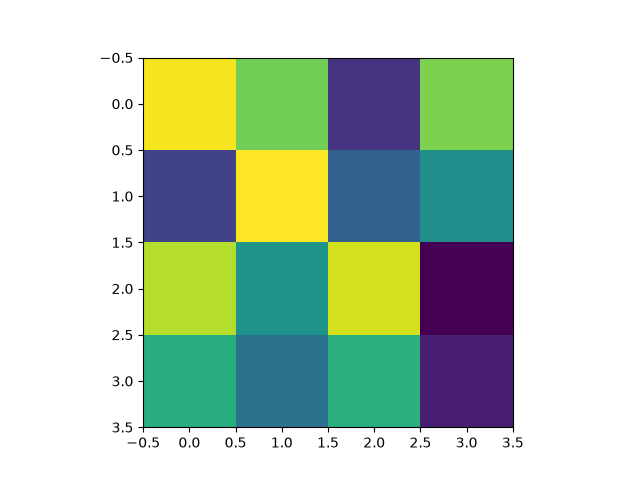
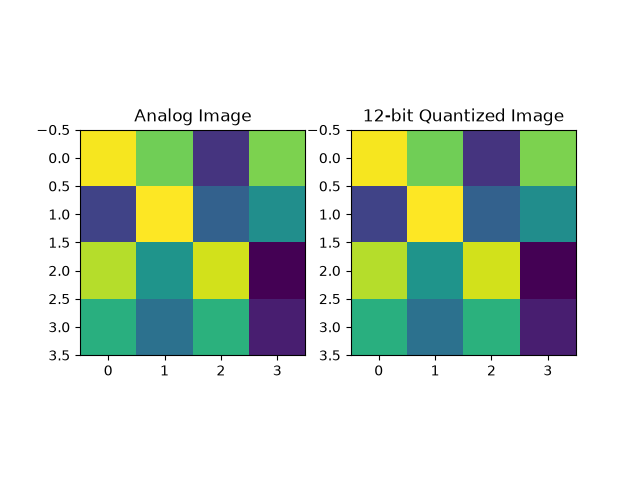
Added results for total simulation

diff --git a/xschem/test/tb_total_tran.py b/xschem/test/tb_total_tran.py
@@ -19,20 +19,28 @@ def data():
 def test_plot_samples(data):
     plt.figure()
 
+    
     plot = data.plots[0]
     axis = plot.get_trace(0).get_wave()
     voltage = plot.get_trace("v(out)").get_wave()
 
-    image = [[0.0] * NCOLUMNS for _ in range(NROWS)]
+    rimage =  [[0.0] * NCOLUMNS for _ in range(NROWS)]
+    qimage = [[0] * NCOLUMNS for _ in range(NROWS)]
 
     for y in range(NROWS):
         for x in range(NCOLUMNS):
             IPIX = (x + y * NROWS)
             tst = FIRST_PIXEL + DT_PIXEL * IPIX
             idx = (np.abs(axis - tst * 1e-6)).argmin()
-            val = voltage[idx]
-            image[x][y] = float(val)
+            rval = voltage[idx]
+            rimage[x][y] = float(rval)
+            qval = int(rval / 3.3 * 2**12)
+            qimage[x][y] = float(qval)
 
-    plt.imshow(image)
-
+    plt.subplot(1,2,1)
+    plt.title("Analog Image")
+    plt.imshow(rimage)
+    plt.subplot(1,2,2)
+    plt.title("12-bit Quantized Image")
+    plt.imshow(qimage)
     plt.savefig("tb_total_tran.png")
